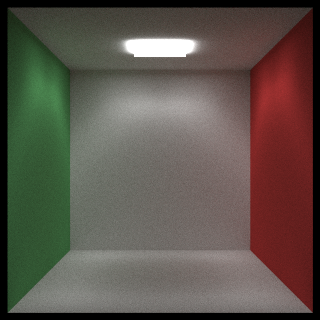
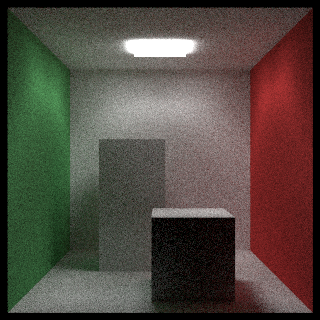
add boxes to cornell room

diff --git a/src/main.rs b/src/main.rs
@@ -98,7 +98,7 @@ fn main() {
 
     cornell_box(&mut scene);
 
-    let renderer = Renderer::new(&camera, &scene, 100);
+    let renderer = Renderer::new(&camera, &scene, 1000);
     let time = Instant::now();
     let pixels = renderer.render();
     println!("Time {} secs.", time.elapsed().as_secs_f32());
@@ -145,6 +145,15 @@ fn cornell_box(scene: &mut Scene) {
     );
     scene.add(
         Parallelogram::new(vec3(0.,0.,555.),vec3(555.,0.,0.),vec3(0.,555.,0.)),
+        white,
+    );
+
+    scene.add(
+        AxisAlignedBox::new(vec3(130., 0., 65.), vec3(295., 165., 230.)),
+        white,
+    );
+    scene.add(
+        AxisAlignedBox::new(vec3(265., 0., 295.), vec3(430., 330., 460.)),
         white,
     );
     

diff --git a/README.md b/README.md
@@ -1,6 +1,5 @@
 following [RayTracingInOneWeekend](https://raytracing.github.io/books/RayTracingInOneWeekend.html#diffusematerials/truelambertianreflection)
 
 result:
-![](output.png)_
+![](output.png)
 
-The lower part of the glass cube looks weird, but I don't know why.
